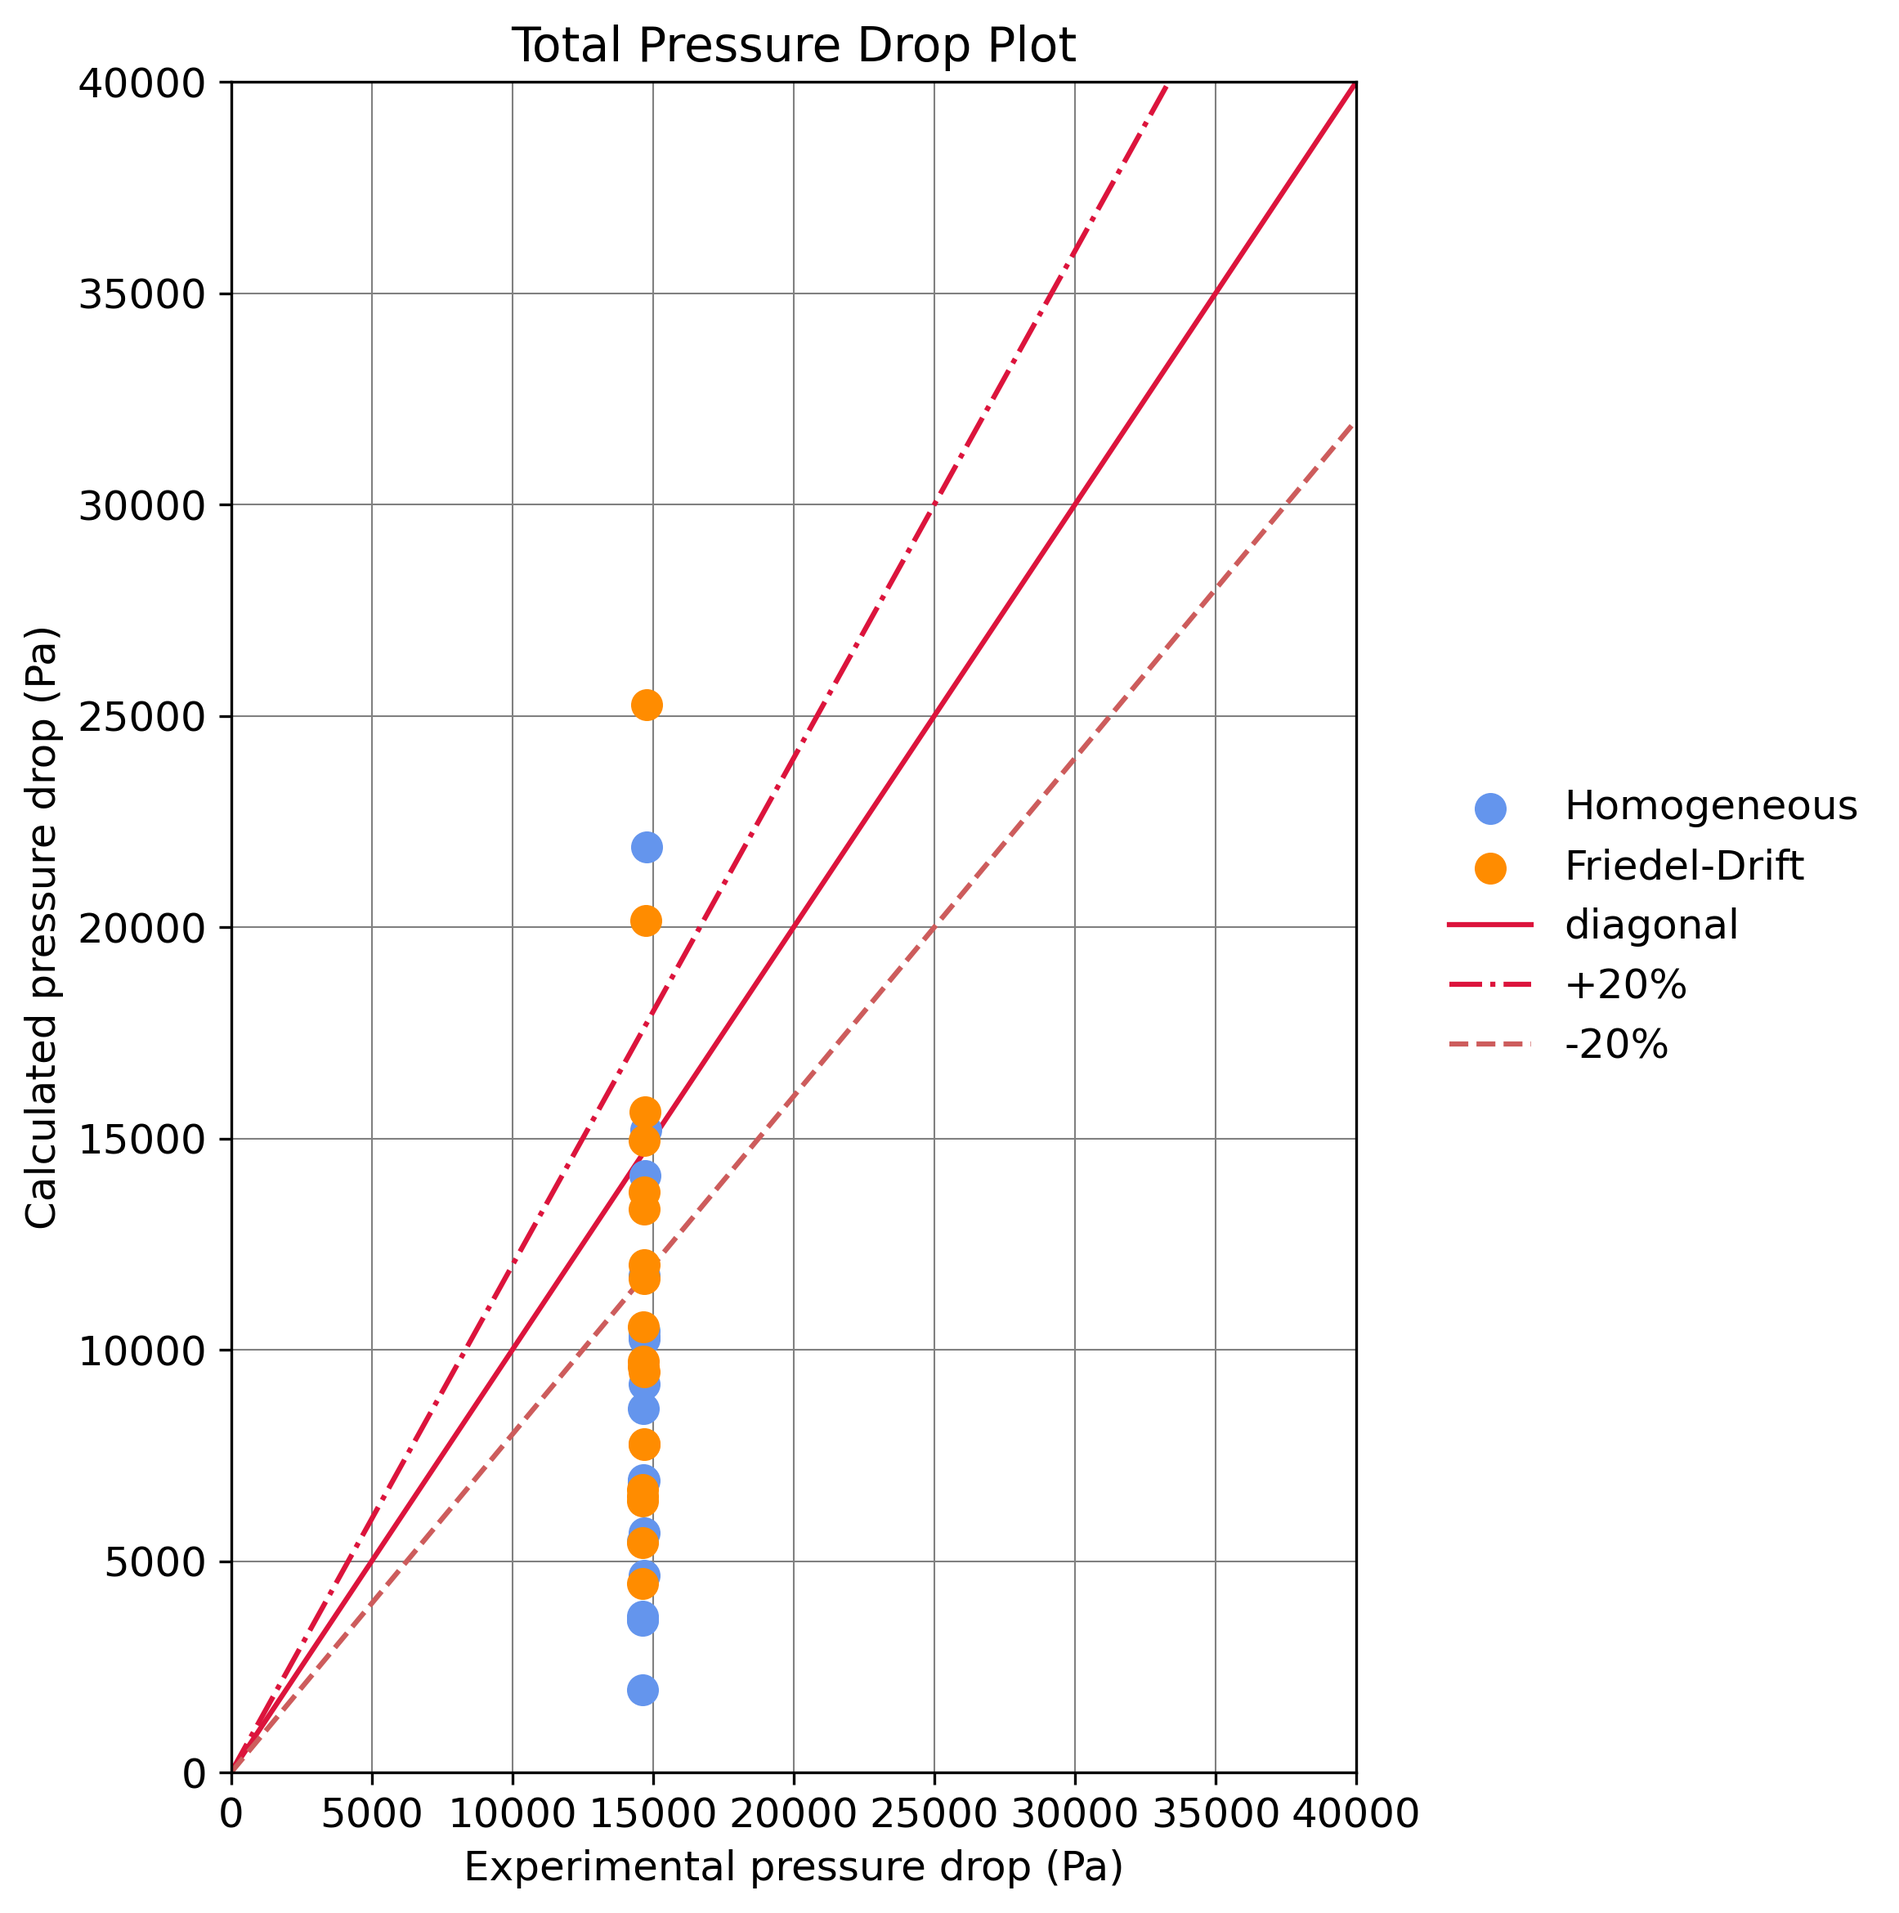
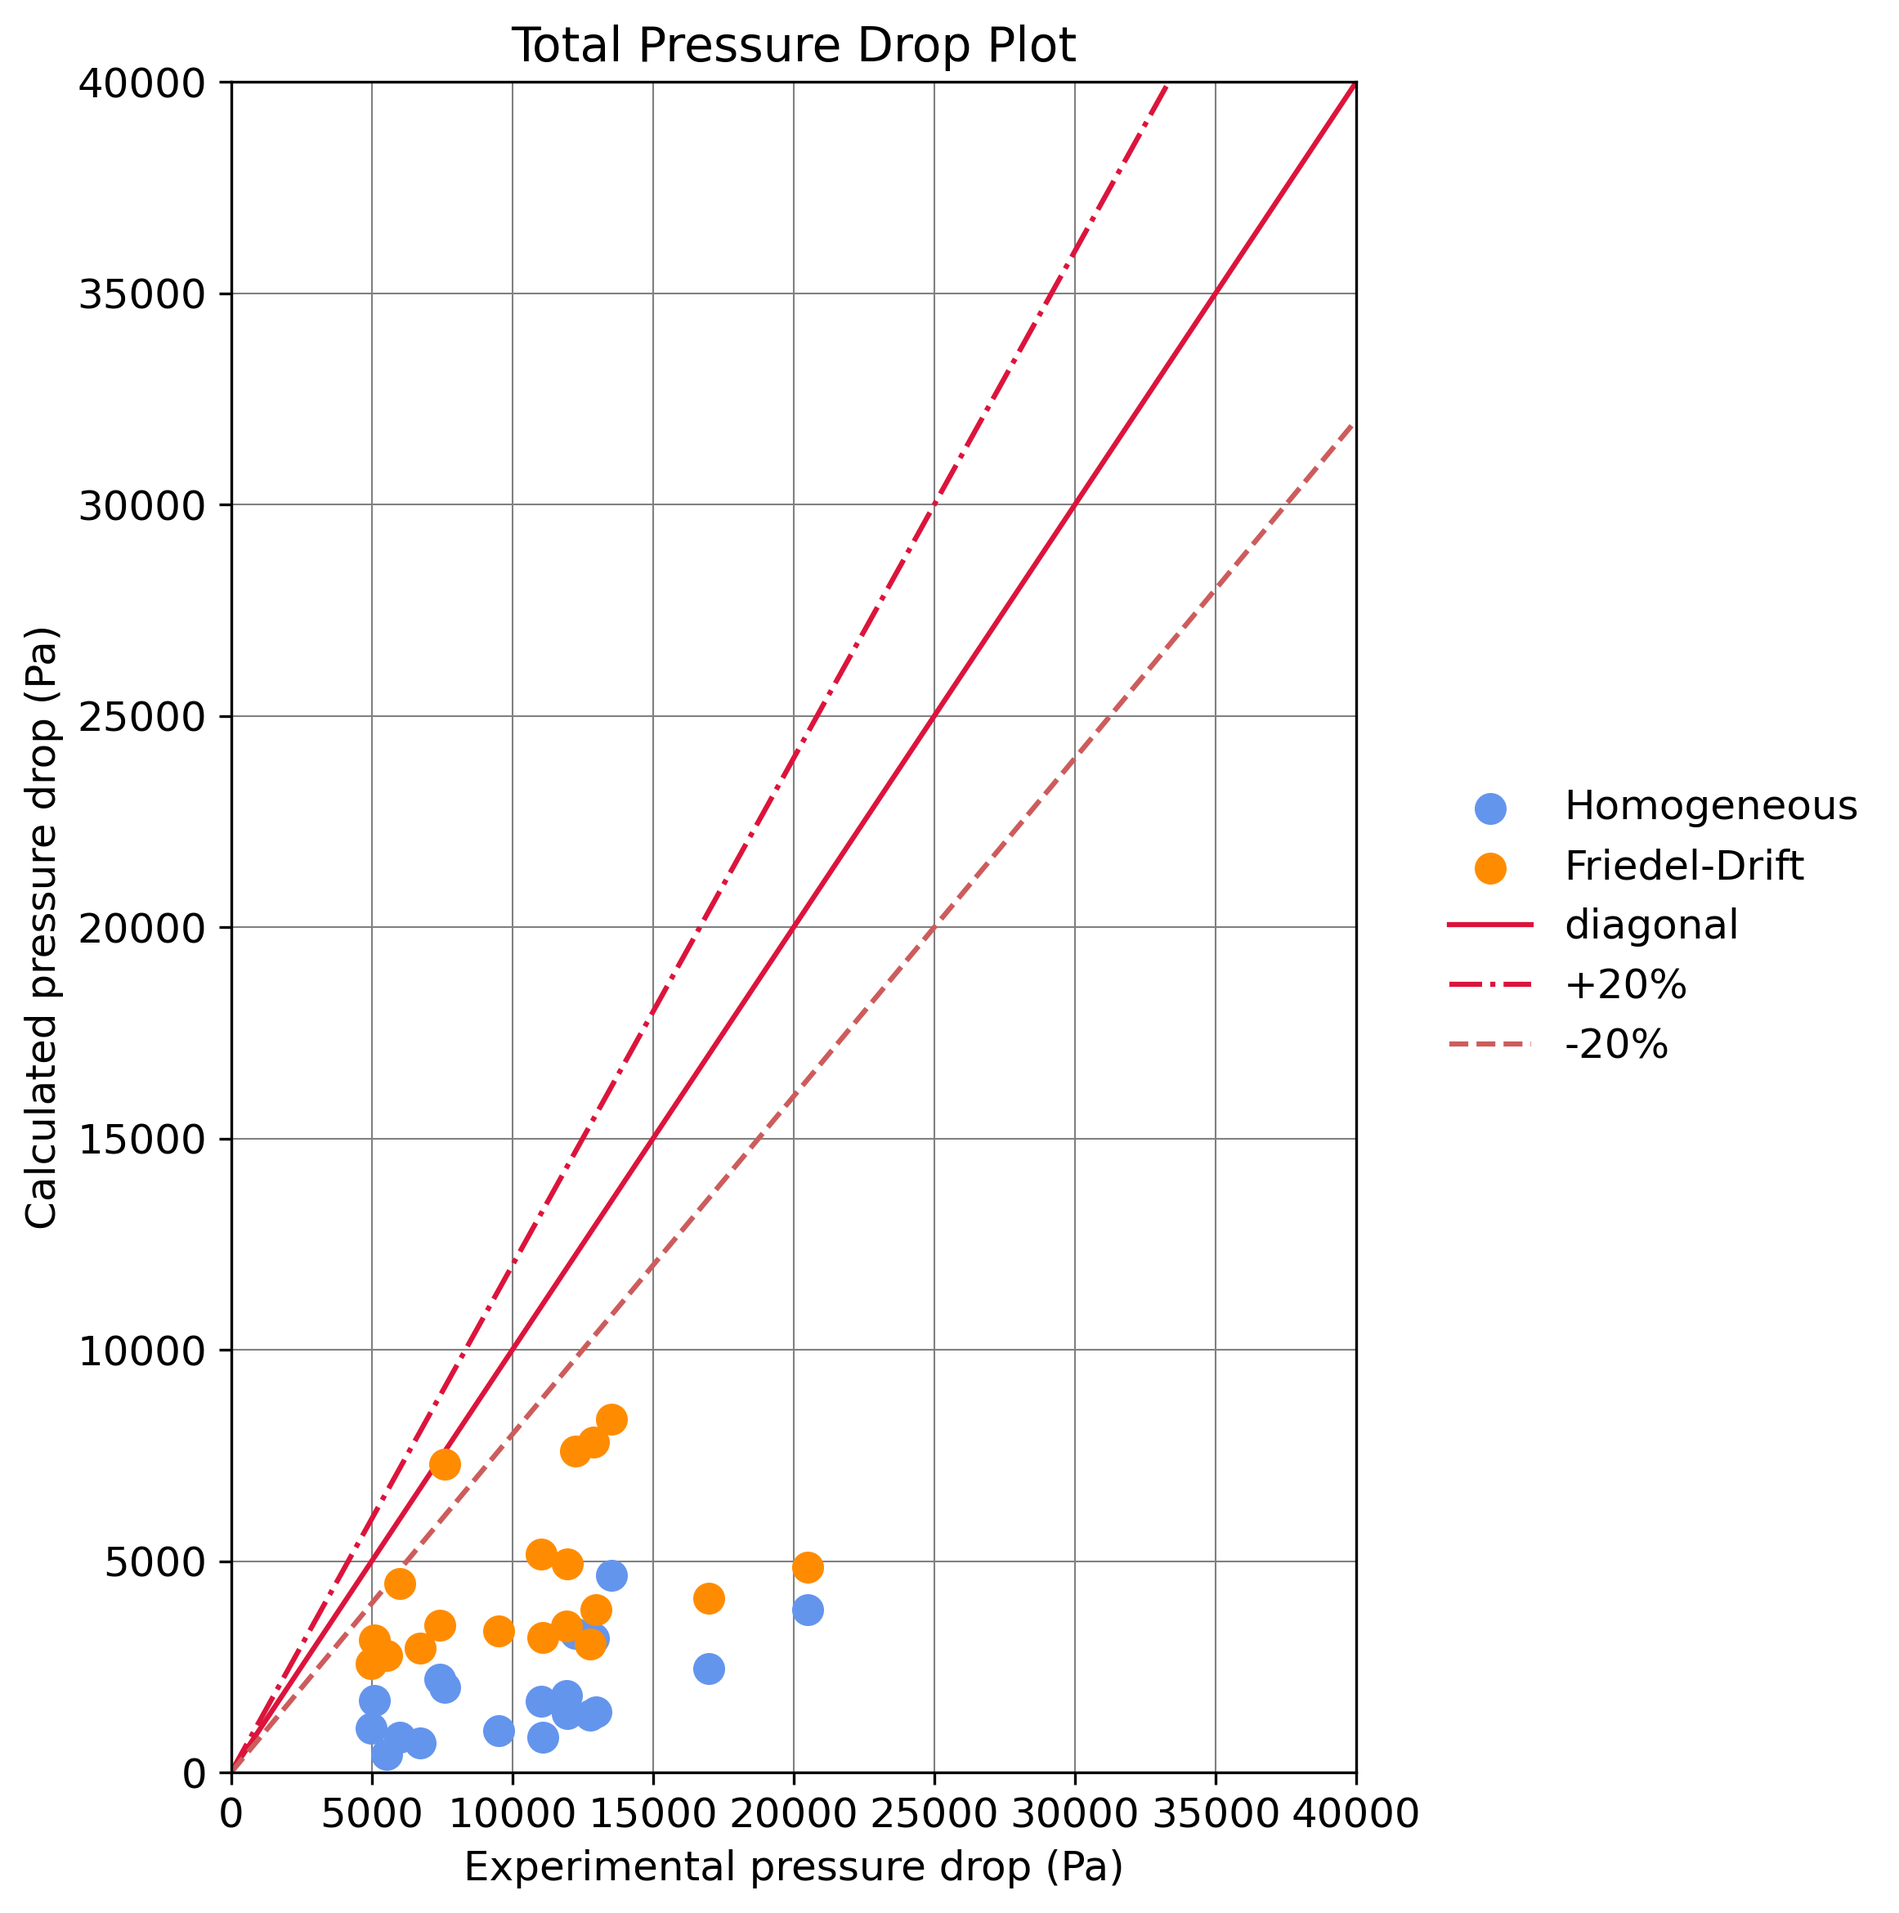
grafici comparison void e dp corretti (da verificare se hanno senso)

diff --git a/lab/comparison_plot.py b/lab/comparison_plot.py
@@ -48,19 +48,24 @@ plt.show()
 
 
 # ==========================================
-# GRAFICO 2: PRESSURE DROP
+# GRAFICO 2: PRESSURE DROP (Tutte le 5 combinazioni)
 # ==========================================
 plt.figure(figsize=(8, 8))
 
-# Trovo il valore massimo per impostare la scala degli assi in modo simmetrico
-max_val = max(df['dp_exp'].max(), df[['dp_tot_hom_hom', 'dp_tot_friedel_drift_flux']].max().max())
-max_val = np.ceil(max_val / 10000) * 10000  # Arrotondo ai 10.000 superiori
-if max_val < 40000: 
-    max_val = 40000
+# Trovo il valore massimo includendo TUTTE le colonne calcolate
+max_val = max(
+    df['dp_exp'].max(), 
+    df[['dp_tot_hom_hom', 'dp_tot_friedel_zivi', 'dp_tot_friedel_chisholm', 'dp_tot_friedel_cise', 'dp_tot_friedel_drift_flux']].max().max()
+)
+# Arrotondo al multiplo di 5.000 superiore per "tagliare" gli assi su misura
+max_val = np.ceil(max_val / 5000) * 5000
 
-# Disegno i punti per i modelli scelti
-plt.scatter(df['dp_exp'], df['dp_tot_hom_hom'], marker='o', color='cornflowerblue', label='Homogeneous', s=70, zorder=3)
-plt.scatter(df['dp_exp'], df['dp_tot_friedel_drift_flux'], marker='o', color='darkorange', label='Friedel-Drift', s=70, zorder=3)
+# Disegno i punti per TUTTE le 5 combinazioni
+plt.scatter(df['dp_exp'], df['dp_tot_hom_hom'], marker='o', color='cornflowerblue', label='Homogeneous (Frict+Elev)', s=70, zorder=3)
+plt.scatter(df['dp_exp'], df['dp_tot_friedel_zivi'], marker='s', color='darkorange', label='Friedel + Zivi', s=60, zorder=3)
+plt.scatter(df['dp_exp'], df['dp_tot_friedel_chisholm'], marker='^', color='forestgreen', label='Friedel + Chisholm', s=70, zorder=3)
+plt.scatter(df['dp_exp'], df['dp_tot_friedel_cise'], marker='D', color='crimson', label='Friedel + CISE', s=50, zorder=3)
+plt.scatter(df['dp_exp'], df['dp_tot_friedel_drift_flux'], marker='*', color='purple', label='Friedel + Drift Flux', s=100, zorder=3)
 
 # Creo i valori per le linee di riferimento (diagonale e +/- 20%)
 x_vals2 = np.linspace(0, max_val, 100)
@@ -83,5 +88,5 @@ plt.legend(bbox_to_anchor=(1.05, 0.5), loc='center left', frameon=False)
 
 # Aggiusto i margini e salvo/mostro l'immagine
 plt.tight_layout()
-plt.savefig('pressure_drop_plot.png', dpi=300, bbox_inches='tight')
+plt.savefig('pressure_drop_all_models_plot.png', dpi=300, bbox_inches='tight')
 plt.show()
